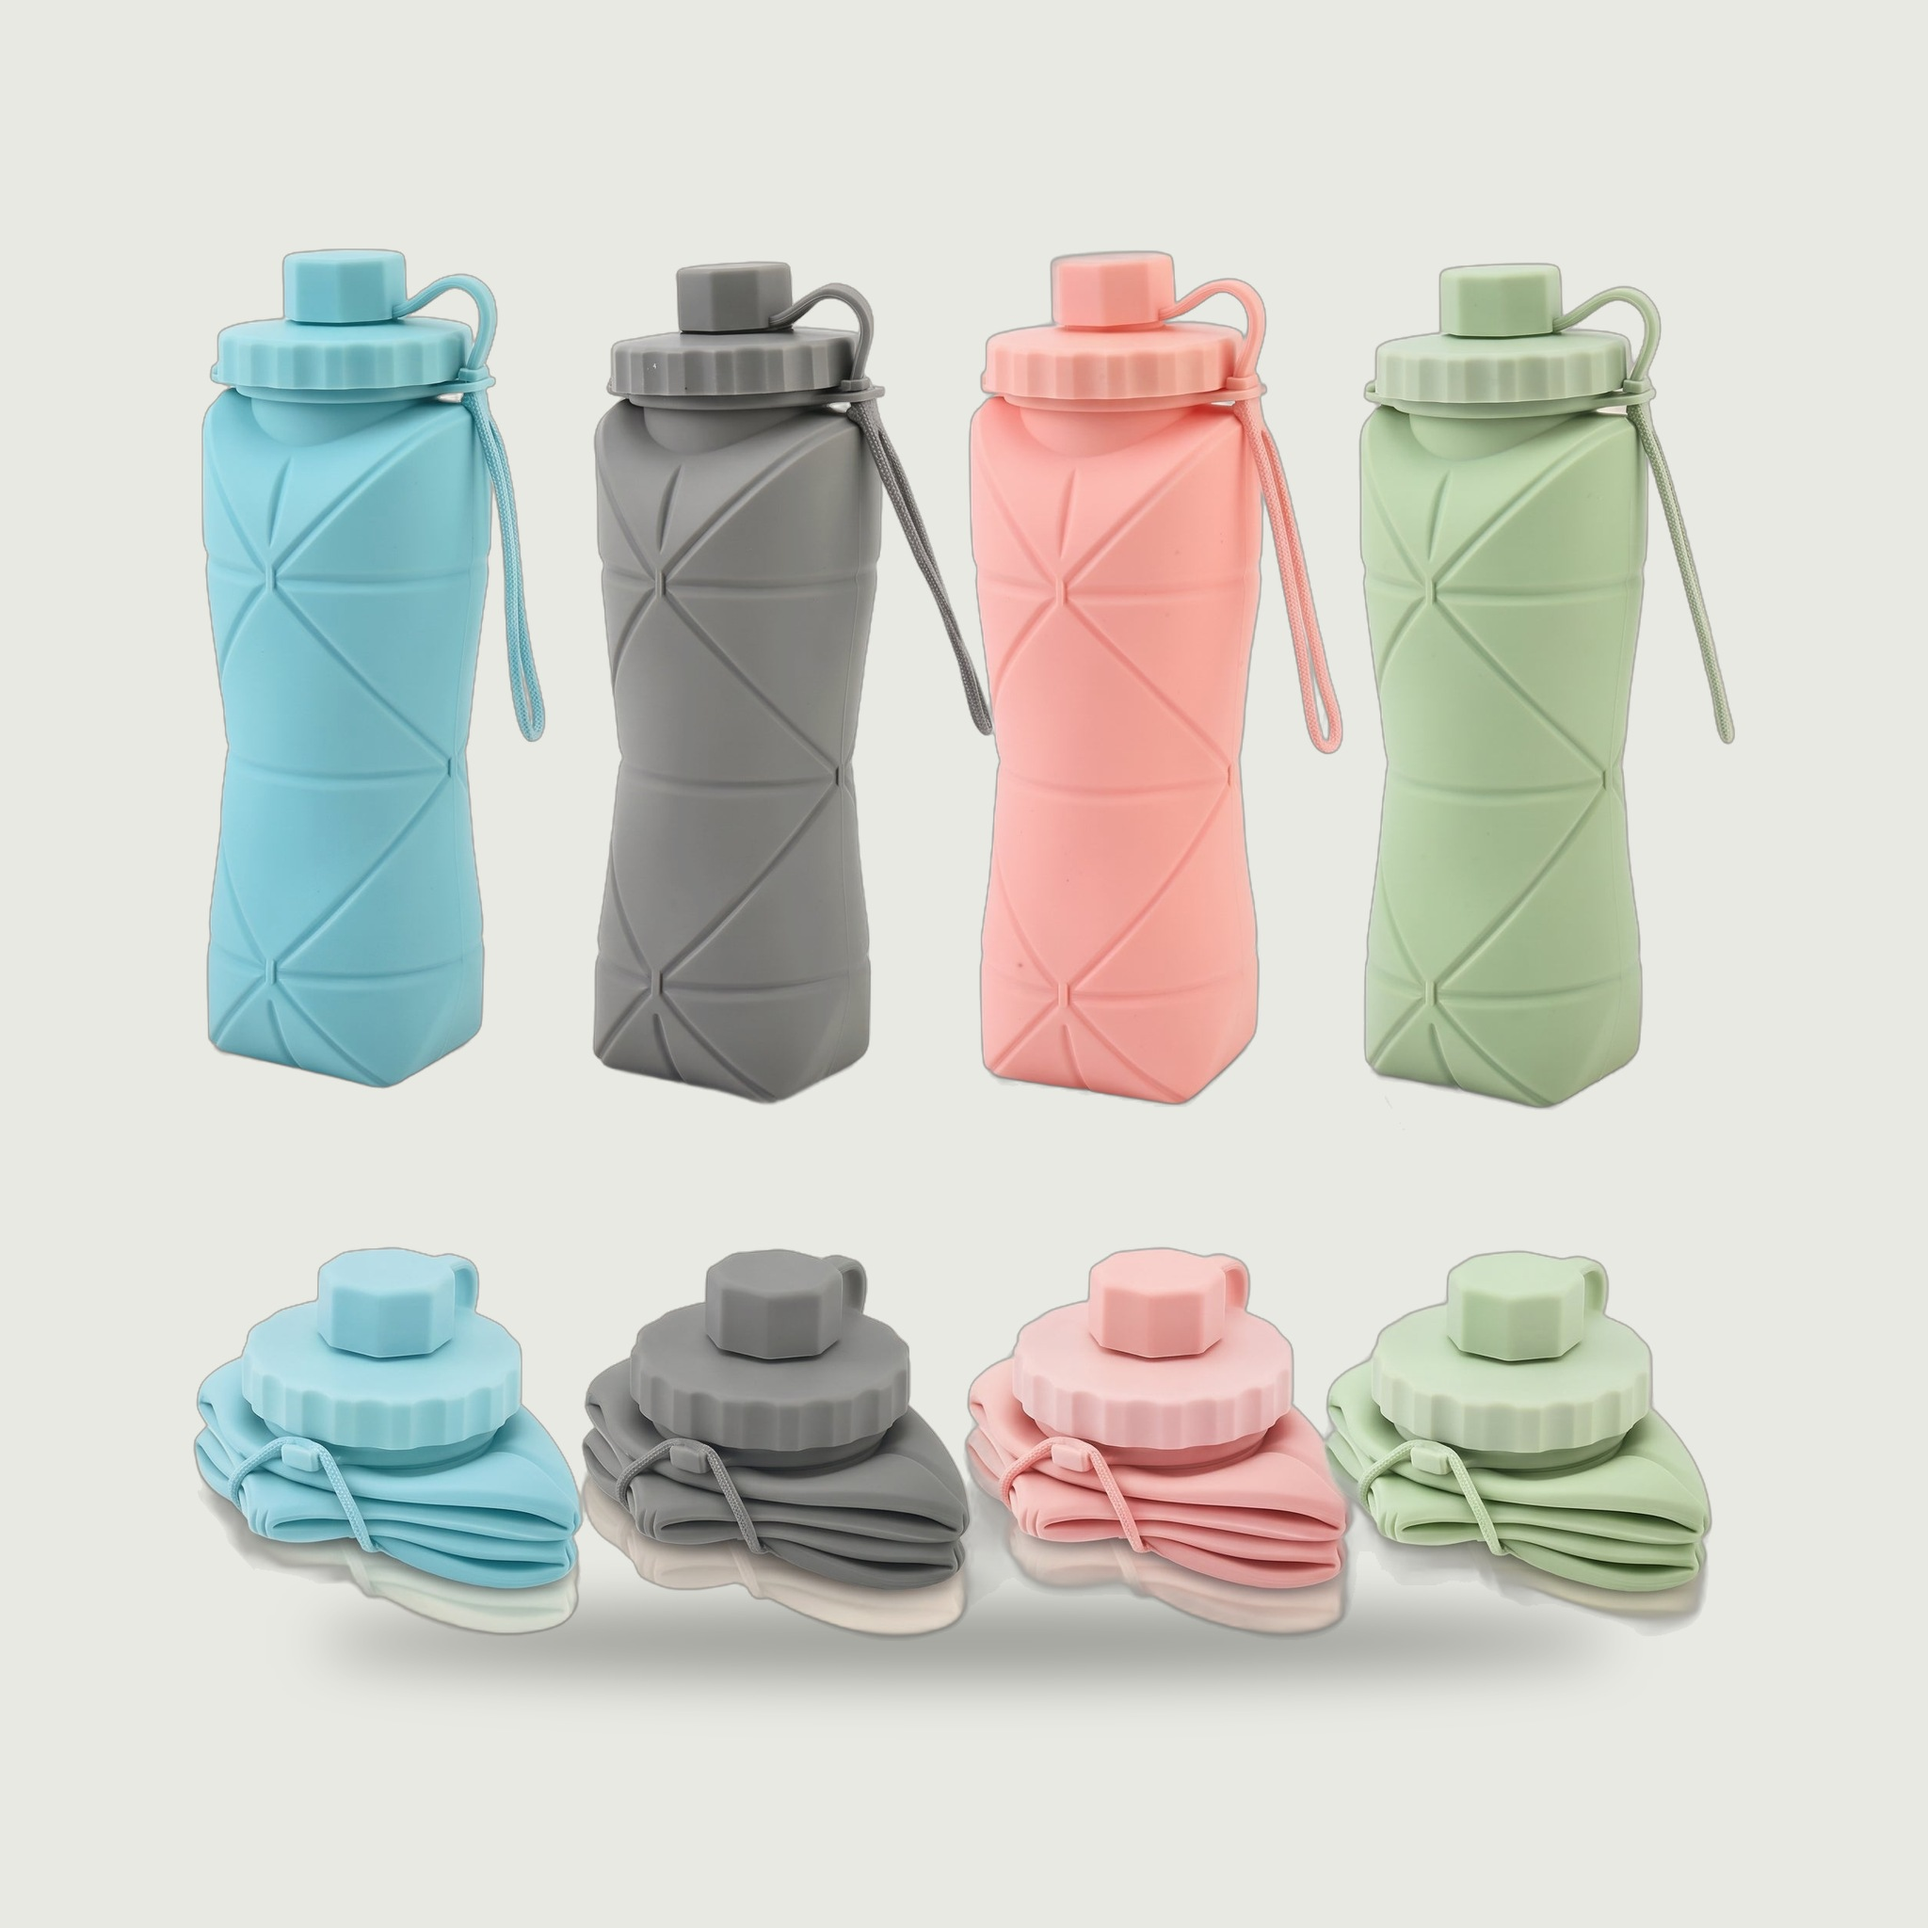
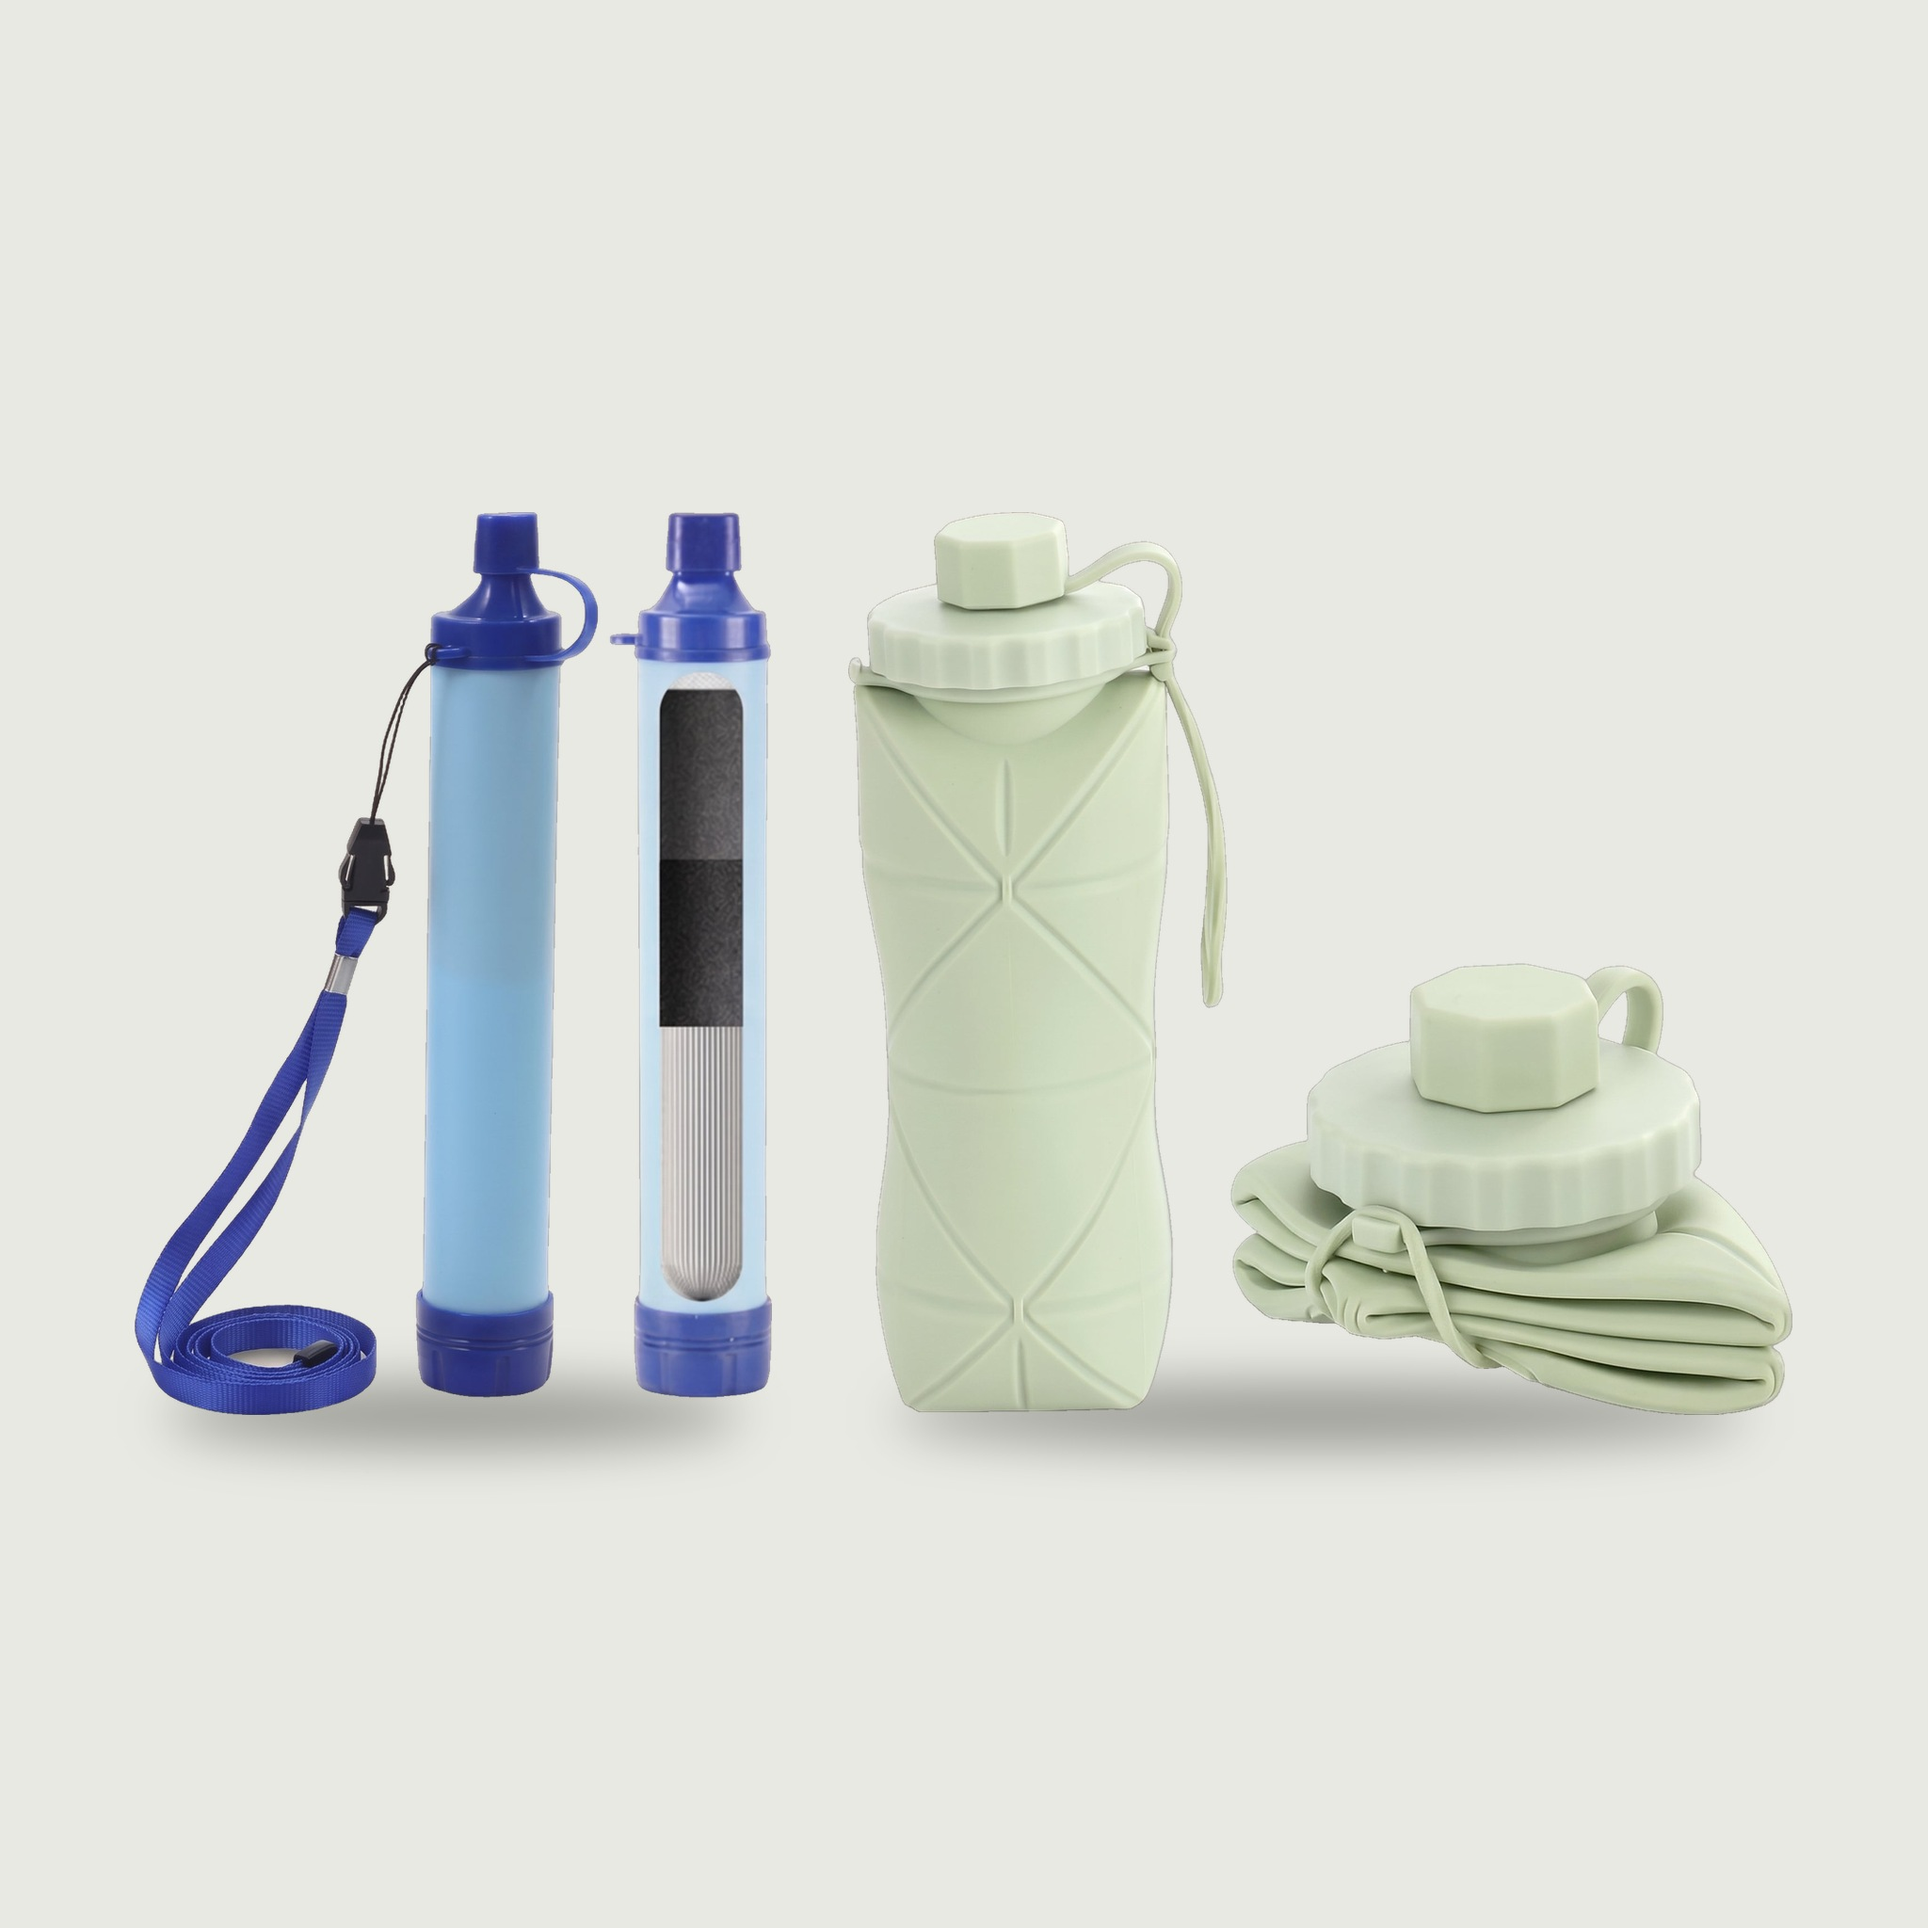
Photos: headlamp, clean water kit, balaclava, trowel, stakes, after dark set, winter set cover
Claude-Session: https://claude.ai/code/session_017Ww7bRLYZM3uMxkStKbUri

diff --git a/scripts/photos/combo.py b/scripts/photos/combo.py
@@ -1,0 +1,39 @@
+#!/usr/bin/env python3
+"""Set/bundle cover (path@0.6 = relative height): several products side by side on #E9E9E4 with soft shadows.
+python3 scripts/photos/combo.py out.jpg a.jpg b.jpg [flat:guide.jpg] ...
+Items are cut out with rembg; 'flat:' items (book or PDF covers) are kept as rectangles."""
+import sys, numpy as np, cv2
+from PIL import Image, ImageFilter
+from rembg import remove, new_session
+BG = (233, 233, 228); S = 2048
+ses = new_session('isnet-general-use')
+out, items = sys.argv[1], sys.argv[2:]
+cuts = []; fr = []
+for it in items:
+    it, _, f = it.partition('@'); fr.append(float(f or 1))
+    if it.startswith('flat:'):
+        im = Image.open(it[5:]).convert('RGBA')
+    else:
+        im = remove(Image.open(it).convert('RGB'), session=ses)
+        a = np.array(im.split()[3]); a[a < 140] = 0; im.putalpha(Image.fromarray(a))
+        im = im.crop(im.getbbox())
+    cuts.append(im)
+# normalise every item to the same height, then apply its relative size (path@0.6)
+cuts = [c.resize((round(c.width * 1000 * f / c.height), round(1000 * f)), Image.LANCZOS) for c, f in zip(cuts, fr)]
+gap = int(S * 0.04); W = S * 0.86; H = S * 0.62
+k = min(H / max(c.height for c in cuts), (W - gap * (len(cuts) - 1)) / sum(c.width for c in cuts))
+cuts = [c.resize((round(c.width * k), round(c.height * k)), Image.LANCZOS) for c in cuts]
+tw = sum(c.width for c in cuts) + gap * (len(cuts) - 1)
+base = (S + max(c.height for c in cuts)) // 2
+canvas = Image.new('RGBA', (S, S), BG + (255,))
+x = (S - tw) // 2
+m = np.zeros((S, S), np.uint8)
+for c in cuts:
+    cv2.ellipse(m, (x + c.width // 2, base), (int(c.width * 0.45), int(S * 0.016)), 0, 0, 360, 120, -1)
+    x += c.width + gap
+sh = Image.fromarray(m).filter(ImageFilter.GaussianBlur(26)); dark = Image.new('RGBA', (S, S), (60, 60, 55, 255)); dark.putalpha(sh)
+canvas.alpha_composite(dark)
+x = (S - tw) // 2
+for c in cuts:
+    canvas.alpha_composite(c, (x, base - c.height)); x += c.width + gap
+canvas.convert('RGB').save(out, quality=93); print(out)

diff --git a/scripts/photos/depeach.py b/scripts/photos/depeach.py
@@ -1,0 +1,17 @@
+#!/usr/bin/env python3
+"""Paint leftover peach studio glow (old 2026-11-08 background) to #E9E9E4 on text cards, keeping the product.
+python3 scripts/photos/depeach.py img.jpg [...]   (in place)"""
+import sys, numpy as np, cv2
+from PIL import Image
+from rembg import remove, new_session
+ses = new_session('isnet-general-use')
+for p in sys.argv[1:]:
+    im = np.array(Image.open(p).convert('RGB')).astype(int)
+    a = np.array(remove(Image.fromarray(im.astype(np.uint8)), session=ses))[..., 3]
+    prod = cv2.dilate((a > 100).astype(np.uint8), np.ones((15, 15), np.uint8)) > 0
+    r, g, b = im[..., 0], im[..., 1], im[..., 2]
+    m = (r > 175) & (g > 140) & (r - b > 4) & (r - b < 95) & ~prod
+    m = cv2.GaussianBlur(m.astype(np.float32), (5, 5), 0)[..., None]
+    out = im * (1 - m) + np.array([233, 233, 228]) * m
+    Image.fromarray(out.round().astype(np.uint8)).save(p, quality=93)
+    print(p)
